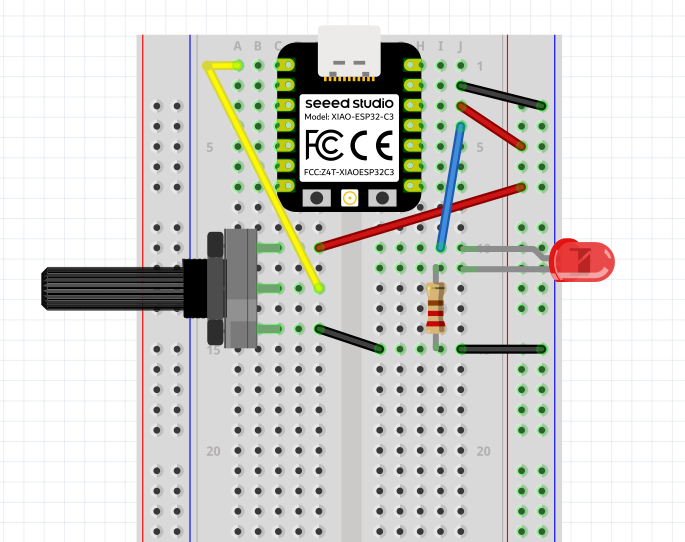
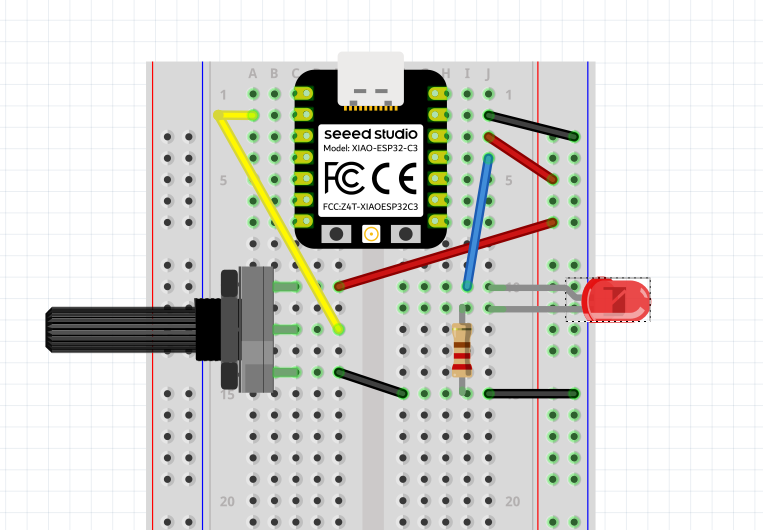
Mise à jour de la documentation : révision des titres et ajout de précisions sur le brochage et les périphériques de sortie numériques, ainsi que sur les configurations GPIO dans ESPHome. Ajout d'images explicatives et mise à jour des liens dans le fichier mkdocs.yml.

diff --git a/docs/157_premier_peripherique_sortie_del.md b/docs/157_premier_peripherique_sortie_del.md
@@ -1,10 +1,30 @@
-# 137. Premier périphérique de sortie : une DEL {#chapitre-premier_peripherique_sortie_del}
+# 137. Brochage et périphérique de sortie numérique {#chapitre-premier_peripherique_sortie_del}
 
-## 137.1 Montage électrique {#fiche-montage_electrique}
+## 137.1 Brochage et types de broches
+
+Le plan de brochage (pinout) indique l'emplacement des broches sur la carte, leurs noms et les fonctions qu'elles peuvent assurer. Les noms imprimés sur la carte, comme D1, ne sont pas nécessairement les numéros GPIO utilisés dans ESPHome : sur le XIAO ESP32-C3, D1 correspond à GPIO3.
+
+![Plan de brochage du XIAO ESP32-C3](https://files.seeedstudio.com/wiki/XIAO_WiFi/XIAO_ESP32-C3_front_pinout.png)
+
+Les broches n'ont pas toutes le même rôle :
+
+* **Alimentation** : 3V3 fournit l'alimentation et GND est la masse; ce ne sont pas des GPIO.
+* **GPIO numériques** : peuvent être configurés en entrée ou en sortie numérique, sous réserve des limites électriques de la carte.
+* **Entrées analogiques (ADC)** : mesurent une tension; toutes les GPIO n'offrent pas cette fonction.
+* **Fonctions périphériques** : certaines broches peuvent aussi servir aux bus comme I2C, SPI ou UART, ou produire un signal PWM. Ces fonctions sont partagées avec les rôles GPIO et leur disponibilité dépend de la carte.
+
+### Broches de strapping
+
+Sur l'ESP32-C3, GPIO2, GPIO8 et GPIO9 sont des broches de strapping. Leur niveau électrique est lu au démarrage pour déterminer certaines options de démarrage. Un circuit raccordé à l'une de ces broches qui impose un niveau incompatible peut empêcher le démarrage normal ou faire démarrer la carte dans un mode différent. Elles peuvent avoir d'autres usages après le démarrage, mais il faut tenir compte de cette contrainte lors du câblage. Pour les premières expériences, choisir une broche disponible qui n'est pas une broche de strapping.
+
+## 137.2 Périphérique de sortie numérique : une DEL
+
+### Montage électrique {#fiche-montage_electrique}
 
 Une broche configurée comme sortie peut commander un périphérique simple. Pour ce premier montage, l'ESP32-C3 allumera et éteindra une DEL.
 
-Utiliser une broche de sortie disponible sur le modèle exact de carte. Pour le XIAO ESP32-C3, D1 correspond à GPIO3; vérifier le brochage de la carte avant de câbler.
+Utiliser une broche de sortie disponible sur le modèle exact de carte. Pour le XIAO ESP32-C3, D1 correspond à GPIO3; vérifier le brochage ci-dessus avant de câbler.
+
 
 ```text
 GPIO3 (D1) ---- résistance 220 à 330 ohms ---- anode DEL |>| cathode ---- GND
@@ -12,14 +32,14 @@ GPIO3 (D1) ---- résistance 220 à 330 ohms ---- anode DEL |>| cathode ---- GND
 
 La patte longue de la DEL est l'anode et la patte courte, près du côté plat du boîtier, la cathode. La résistance doit être en série avec la DEL. Ne jamais brancher une DEL directement entre une broche et GND. 
 
-## Déclarer la sortie dans ESPHome
+### Déclarer la sortie dans ESPHome
 
 Ajouter un interrupteur GPIO à la configuration :
 
 ```yaml
 switch:
   - platform: gpio
-    pin: GPIO3
+    pin: GPIO3 # À remplacer par la broche choisie pour la DEL
     id: led_montage
     name: "DEL du montage"
 ```
@@ -28,7 +48,7 @@ Après compilation et installation, cet interrupteur devrait être disponible da
 
 Ajouter le contrôle de votre DEL à un tableau de bord Home Assistant.
 
-## Vérifications et précautions
+### Vérifications et précautions
 
 1. Vérifier le câblage hors tension avant de connecter la carte.
 2. Confirmer que la broche choisie correspond au numéro GPIO de la configuration, et pas seulement au nom imprimé sur la carte.
@@ -37,4 +57,5 @@ Ajouter le contrôle de votre DEL à un tableau de bord Home Assistant.
 ## Références
 
 * [Interrupteur GPIO ESPHome](https://esphome.io/components/switch/gpio/)
-* [Brochage du XIAO ESP32-C3](https://wiki.seeedstudio.com/xiao_esp32c3_getting_started/)
+* [Plan de brochage du XIAO ESP32-C3 (Seeed Studio)](https://files.seeedstudio.com/wiki/XIAO_WiFi/XIAO_ESP32-C3_front_pinout.png)
+* [Mode de démarrage et broches de strapping de l'ESP32-C3 (Espressif)](https://docs.espressif.com/projects/esp-idf/en/stable/esp32c3/api-guides/boot-mode-selection.html)

diff --git a/docs/76__semaine_8_.md b/docs/76__semaine_8_.md
@@ -10,7 +10,7 @@
 - [134. Les entités intégrées ESPHome](154_entites_integrees_esphome.md)
 - [135. OTA et journaux ESPHome](155_ota_et_journaux_esphome.md)
 - [136. Exercice : entités intégrées, OTA et journaux](156_exercice_entites_ota_journaux_esphome.md)
-- [137. Premier périphérique de sortie : une DEL](157_premier_peripherique_sortie_del.md)
+- [137. Brochage et périphérique de sortie numérique](157_premier_peripherique_sortie_del.md)
 - [138. Exercice : commander une DEL avec ESPHome](158_exercice_premier_peripherique_sortie_del.md)
 
 

diff --git a/docs/161_del_pwm_potentiometre_esphome.md b/docs/161_del_pwm_potentiometre_esphome.md
@@ -23,7 +23,9 @@ La lumière monochrome reprend la sortie PWM comme canal de luminosité :
 ```yaml
 output:
   - platform: ledc
-    pin: GPIO5
+    pin: GPIO5 # À remplacer par la broche choisie pour la DEL
+    # Fréquence du signal PWM - 1000 Hz par défaut
+    # frequency: 1000 Hz
     id: sortie_del_pwm
 
 light:

diff --git a/docs/162_adc_potentiometre_esphome.md b/docs/162_adc_potentiometre_esphome.md
@@ -24,7 +24,7 @@ Par défaut, ESPHome utilise une atténuation de `0db`; la lecture plafonne alor
 ```yaml
 sensor:
   - platform: adc
-    pin: GPIO4
+    pin: GPIO4 # À remplacer par la broche choisie pour le potentiomètre
     attenuation: 12db
     id: lecture_potentiometre
     name: "Position du potentiomètre"

diff --git a/docs/159_bouton_actions_rebond_esphome.md b/docs/159_bouton_actions_rebond_esphome.md
@@ -30,7 +30,7 @@ La résistance de rappel interne maintient l'entrée à l'état bas lorsque le b
 binary_sensor:
   - platform: gpio
     pin:
-      number: GPIO4
+      number: GPIO4 # À remplacer par la broche choisie pour le bouton
       mode:
         input: true
         pulldown: true
